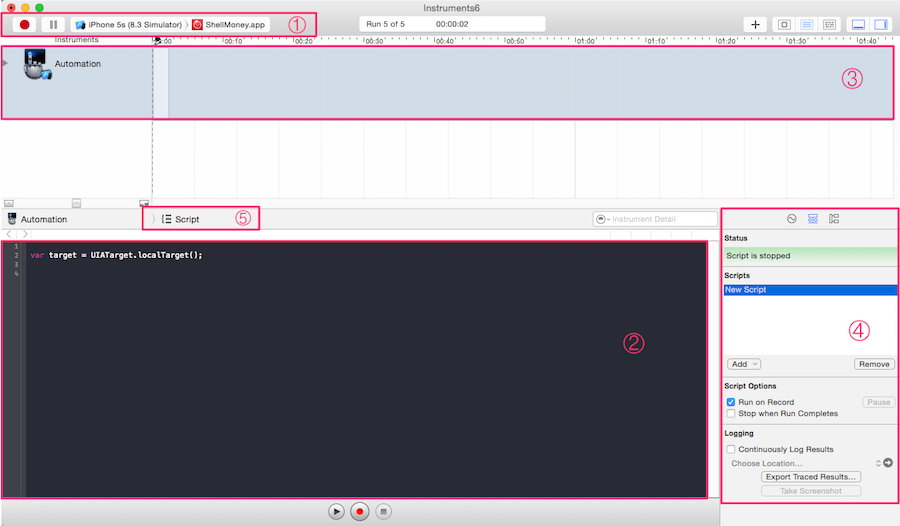
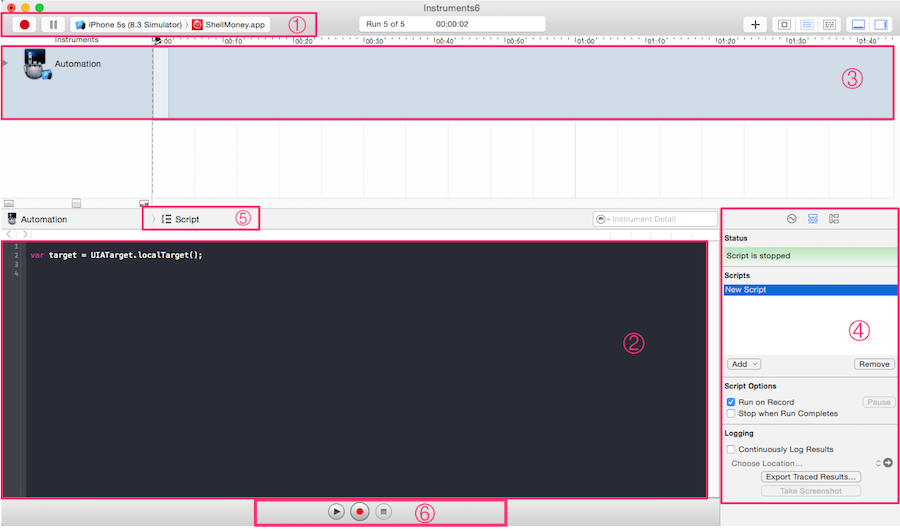
文章修改

diff --git a/assets/css/screen.css b/assets/css/screen.css
@@ -342,17 +342,15 @@ code, tt {
 /*    border: #E3EDF3 1px solid;*/
 /*    background: #F7FAFB;*/
 /*    border-radius: 2px;*/
-    padding-top: 0.0em;
-    padding-right: 0.4em;
-    padding-bottom: 0.1em;
-    padding-left: 0.4em;
+    padding: .0em .4em  .1em .4em;
     font-family: Inconsolata, monospace, sans-serif;
-    font-size:  0.95em;
+    font-size:  0.98em;
     white-space: pre-wrap;
     background: #e8f2fb;
-    border: 1px solid #e6eff3;
+    /*border: 1px solid #e6eff3;*/
     border-radius: 3px;
     vertical-align: bottom;
+    word-wrap: break-word;
 }
 
 pre {

diff --git a/_posts/UiAutomation.md b/_posts/UiAutomation.md
@@ -10,15 +10,128 @@ publish: false
 description: iOS UI自动化测试
 ---
 
-秉着想偷懒的原则和测试这块一直存在的诟病，空闲的时把苹果提供的UIAutomation研究了一番，心想这样就可以坐等APP自己跑完所有流程然后输出carsh报告。
+秉着想偷懒的原则和测试这块一直存在的诟病，空闲的时把苹果提供的UIAutomation研究了一番，心想这样就可以坐等APP自己跑完所有流程然后输出 carsh 报告。但是想象很丰满，现实很骨感，UiAutomation 并没有想象中那么的完美。<br>
 
+##基本介绍
 
-先来看看苹果提供的GUI工具，⌘ + I 打开Instruments，选择UiAutomation
+`⌘ + I` 打开Instruments，选择 UiAutomation
 
 ![image](/images/UiAutomation/tool.png)
 
-① 选择设备和项目<br>
-② 显示区域，包括JS脚本编辑区，Trace Log 和 Editor Log<br>
-③ 测试时间线<br>
-④ 一些选项<br>
-⑤ 选择脚本、Log<br>
+① 开始、结束测试按钮，选择设备和项目菜单<br>
+② JS脚本编辑区，Trace Log 和 Editor Log显示区<br>
+③ 自动化测试时间线<br>
+④ 其他菜单页面<br>
+⑤ 脚本或是Log选择菜单<br>
+⑥ 自动生成JS脚本代码的开始、结束和停止按钮<br>
+
+看一个简单的例子，APP的界面上有一个UITextField，称之为`A元素`，Navigationbar有个rightItem，称之为`B元素`，点击rightItem会push到另一个VC
+![image](/images/UiAutomation/screen.png)
+
+在④中选择一个空的脚本写入下列代码，对 JS 不了解的也不用当心，自动化测试的 JS 代码非常简单。
+{% highlight ruby %}
+var target = UIATarget.localTarget();
+var app = target.frontMostApp();
+var window = app.mainWindow();
+// 打印元素树
+app.logElementTree();
+{% endhighlight %}
+
+`⌘ + R`跑一下，②区域应该会自动切换到Log界面
+![image](/images/UiAutomation/log.png)
+
+Log打印出来的是当前界面的元素（UIAElement）树，同层级的元素会被包含到数组中，模拟用户操作其实就是对元素的操作，那么获取到元素才是关键。<br>
+**补充脚本：**
+{% highlight ruby %}
+var target = UIATarget.localTarget();
+var app = target.frontMostApp();
+var window = app.mainWindow();
+app.logElementTree();
+var textField = window.textFields()[0];
+// 在 A 元素中输入122
+textField.setValue("122");
+// 停顿1秒
+target.delay(1);
+// 获取 B 元素
+var rightButton = window.navigationBar().buttons()['Button'];
+// 点击 B 元素
+rightButton.tap();
+{% endhighlight %}
+
+运行后的效果是：A 元素被输入了122的字符，然后 B 元素被点击，APP 进入了一个页面
+
+代码解读：
+
+* 获取 A 元素：`window.textFields()[0]`，界面上只有一个textField，那么当然是textFields数组的第一个元素
+* 获取 B 元素：`window.navigationBar().buttons()['Button']`，由于 B 元素是在navigationBar上，所以需要先获取navigationBar，再从buttons数组中获取 B 元素，通过 B 元素`name`属性的值`Button`(默认值)获取。
+
+元素的`name`值也可以手动设置，比如设置 A 元素的`name`值为`textField`，注意：不要设置元素的可访问性（isAccessibilityElement）为NO
+![image](/images/UiAutomation/label.png)
+或者用代码设置
+{% highlight ruby %}
+self.aView.accessibilityLabel = @"textField";
+{% endhighlight %}
+
+那么就可以通过下面这种方式获取
+
+{% highlight ruby %}
+var textField = window.textFields()['textField'];
+{% endhighlight %}
+
+关于元素的可执行方法，比如`tap()`，可以查看苹果的[官方文档](https://developer.apple.com/library/ios/documentation/DeveloperTools/Reference/UIAutomationRef/)。
+
+**以及元素数组包括：**
+
+{% highlight ruby %}
+1. buttons()
+2. images()
+3. scrollViews()
+4. textFields()
+5. webViews()
+6. segmentedControls()
+7. sliders()
+8. staticTexts()
+9. switches()
+10. tabBar()
+11. tableViews()
+12. textViews()
+13. toolbar()
+14. toolbars()
+15. secureTextFields() // 加密的UITextField
+...
+{% endhighlight %}
+
+苹果另外也提供一个辅助检查功能工具，可以方便查看元素的信息<br>打开设置（Settings）-- 通用（General）-- 辅助功能（Accessibility）-- 辅助功能检查器（Accessibility Inspector）
+
+![image](/images/UiAutomation/accessibility.png)
+
+
+##操作脚本录制
+
+
+在④中创建一个新的脚本，在⑥中点击中间的红色按钮，代表开始录制用户操作并转换为JS代码，点击右侧的按钮，停止录制，左侧按钮，执行脚本。这时候你肯定在想，既然有这功能，还需要写什么脚本啊。
+
+{% highlight ruby %}
+target.frontMostApp().mainWindow().textFields()[0].textFields()[0].tap();
+target.frontMostApp().keyboard().typeString("e");
+target.frontMostApp().navigationBar().buttons()["Button"].tap();
+{% endhighlight %}
+
+
+
+
+
+
+
+
+
+
+
+
+
+
+
+
+
+
+__参考：[知平软件](http://www.cnblogs.com/vowei/archive/2012/08/10/2631949.html#3105924)__
